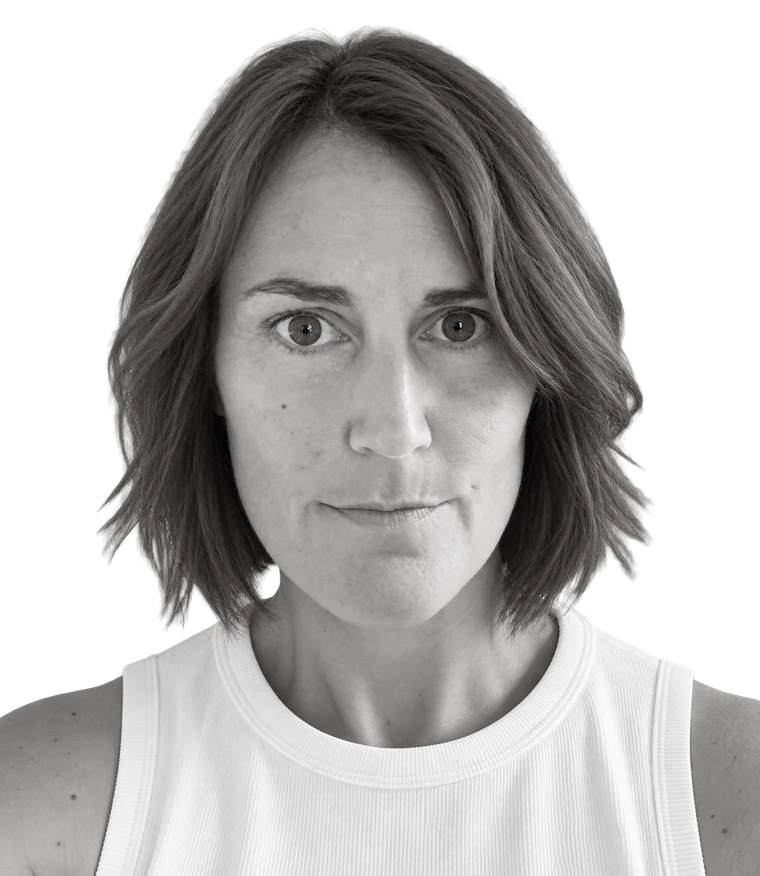
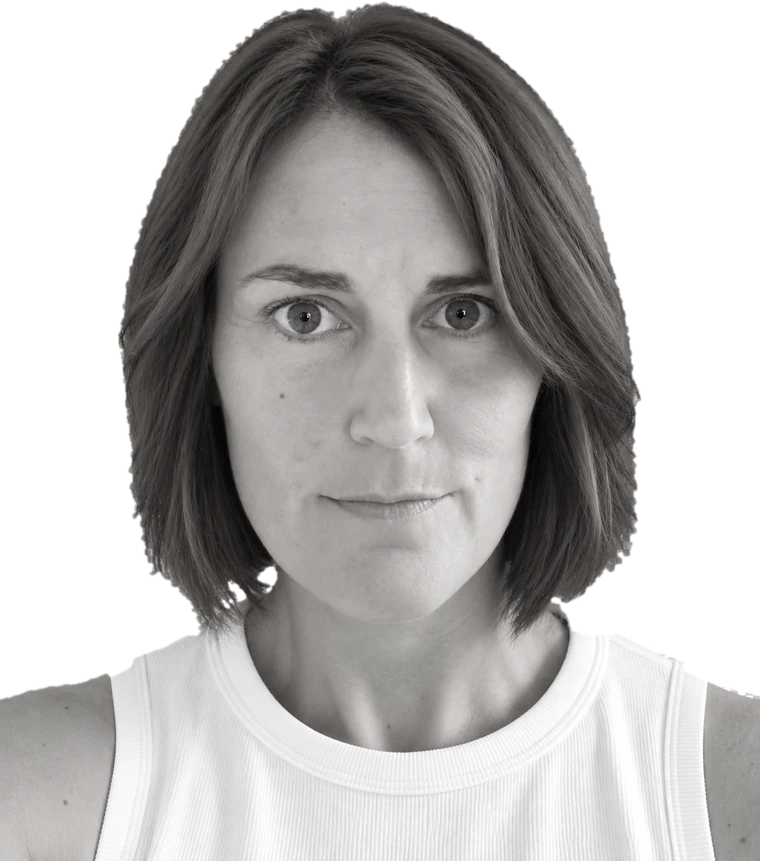
Add files via upload

diff --git a/index.html b/index.html
@@ -4,6 +4,7 @@
 <meta charset="utf-8">
 <meta name="viewport" content="width=device-width, initial-scale=1, viewport-fit=cover">
 <title>Axelle Julliard – Consultante indépendante | YeloConseil</title>
+<script>(function(){function f(){var h=(window.visualViewport&&window.visualViewport.height)||window.innerHeight;document.documentElement.style.setProperty("--vh",h+"px")}f();window.addEventListener("resize",f);window.addEventListener("orientationchange",f)})();</script>
 <meta name="description" content="Axelle Julliard, consultante indépendante en organisation et management. Pilotage de projets et transformation, Nantes et périphérie.">
 <meta name="theme-color" content="#ffffff">
 <meta property="og:title" content="Axelle Julliard – Consultante indépendante">
@@ -30,98 +31,101 @@ body{
   font-family:"Poppins","Avenir Next",Avenir,"Segoe UI",system-ui,sans-serif;
   font-weight:400;
   color:var(--ink);
-  background:var(--page);
-  min-height:100vh;
+  background:#fff;
   display:flex;
   justify-content:center;
 }
+/* La carte occupe exactement l'écran : tout est dimensionné en fonction
+   de sa largeur (cqw) et de sa hauteur (cqh), donc rien ne dépasse. */
 .card{
   width:100%;
   max-width:440px;
-  min-height:100vh;
+  height:100vh;height:100svh;height:min(var(--vh,100svh),720px);
   background:#fff;
   position:relative;
   overflow:hidden;
-  container-type:inline-size;
+  container-type:size;
   display:flex;
   flex-direction:column;
 }
 @media (min-width:480px){
-  body{align-items:flex-start;padding:32px 0}
-  .card{min-height:0;border-radius:36px;box-shadow:0 24px 60px rgba(20,20,20,.12)}
+  body{align-items:center;min-height:100vh;padding:32px 0;background:var(--page)}
+  .card{height:min(860px,calc(100vh - 64px));border-radius:36px;box-shadow:0 24px 60px rgba(20,20,20,.12)}
 }
 
-/* ---------- Contenu ---------- */
 .sheet{
-  flex:1;
-  padding:calc(30px + env(safe-area-inset-top,0px)) 28px 0;
+  flex:1;min-height:0;
+  padding:calc(3.2cqh + env(safe-area-inset-top,0px)) 7.2cqw 0;
   display:flex;flex-direction:column;
 }
-.logo{display:block;width:min(260px,66%);height:auto}
-.identity{margin-top:34px}
+.logo{display:block;width:min(66%,30cqh,260px);height:auto}
+.identity{margin-top:3.6cqh}
 h1{
   margin:0;
-  font-size:clamp(1.9rem,8.6cqw,2.4rem);
+  font-size:clamp(1.45rem,min(8.6cqw,4.3cqh),2.4rem);
   line-height:1.1;
   font-weight:500;
   letter-spacing:-.01em;
 }
-.role{margin:8px 0 0;font-size:1.15rem;font-weight:500;color:var(--pink)}
-.skills{margin:12px 0 0;font-size:.92rem;line-height:1.5;color:var(--muted);max-width:32ch}
-.place{display:flex;align-items:center;gap:10px;margin:16px 0 0;font-size:.92rem;color:var(--muted)}
-.place svg{flex:none}
+.role{margin:.9cqh 0 0;font-size:clamp(.95rem,min(4.4cqw,2.5cqh),1.15rem);font-weight:500;color:var(--pink)}
+.skills{margin:1.4cqh 0 0;font-size:clamp(.76rem,min(3.6cqw,2.1cqh),.92rem);line-height:1.45;color:var(--muted);max-width:32ch}
+.place{display:flex;align-items:center;gap:10px;margin:1.8cqh 0 0;font-size:clamp(.76rem,min(3.6cqw,2.1cqh),.92rem);color:var(--muted)}
+.place svg{flex:none;height:clamp(16px,2.8cqh,24px);width:auto}
 
-.actions{display:grid;gap:10px;margin-top:24px}
+.actions{display:grid;gap:1.2cqh;margin-top:2.8cqh}
 .btn{
-  display:flex;align-items:center;gap:18px;
-  min-height:54px;padding:0 18px;
+  display:flex;align-items:center;gap:clamp(12px,4.4cqw,18px);
+  min-height:clamp(40px,6.3cqh,54px);padding:0 clamp(12px,4.6cqw,18px);
   border-radius:14px;
-  font:inherit;font-weight:500;font-size:1rem;
+  font:inherit;font-weight:500;font-size:clamp(.8rem,min(2.4cqh,4.2cqw),1rem);
   color:var(--ink);text-decoration:none;
   background:var(--pink-soft);
   transition:background-color .15s ease, transform .15s ease;
 }
 .btn .label{flex:1}
 .btn svg{flex:none}
+.btn svg:first-child{height:clamp(20px,3.1cqh,26px);width:auto}
 .btn:hover{background:var(--pink-line)}
 .btn:active{transform:scale(.985)}
 .btn:focus-visible{outline:3px solid var(--ink);outline-offset:3px}
 .btn.primary{background:var(--pink);color:#fff}
 .btn.primary:hover{background:#e0107f}
 
-/* ---------- Bas : signature + portrait discret ---------- */
+/* ---------- Bas : signature + portrait discret, côte à côte ---------- */
 .closing{
   position:relative;
-  margin-top:28px;padding-top:24px;
-  display:grid;grid-template-columns:1fr auto;grid-template-rows:auto 1fr;align-items:end;
-  flex:1;
+  margin-top:3cqh;padding-top:2.6cqh;
+  display:grid;grid-template-columns:1fr auto;grid-template-rows:auto;align-items:end;align-content:center;column-gap:2cqw;
+  flex:1;min-height:0;
 }
 .closing::before{content:"";position:absolute;left:0;top:0;width:min(250px,62%);height:1px;background:var(--pink-line)}
-.tagline{grid-column:1 / -1;margin:0;font-size:clamp(1.3rem,6.4cqw,1.6rem);line-height:1.3;font-weight:400}
+.tagline{align-self:center;margin:0;font-size:clamp(1rem,min(5.6cqw,3.1cqh),1.4rem);line-height:1.3;font-weight:400}
 .tagline em{font-style:normal;color:var(--pink)}
-.tagline::after{content:"";display:block;width:56px;height:4px;border-radius:2px;background:var(--pink);margin-top:20px}
+.tagline::after{content:"";display:block;width:48px;height:4px;border-radius:2px;background:var(--pink);margin-top:1.8cqh}
 
 .figure{
-  --d:40cqw;
-  grid-column:2;
-  min-height:0;
+  --d:min(34cqw,22cqh);
   position:relative;
   width:var(--d);height:calc(var(--d) * 1.3);
-  margin-top:6px;
-  margin-bottom:calc(var(--d) * -.22);
+  margin-bottom:max(calc(var(--d) * .03),3.2cqh);
   /* le cercle est découpé en bas, la tête peut dépasser en haut */
-  -webkit-mask-image:linear-gradient(#000,#000),radial-gradient(circle at 50% calc(var(--d) * .8),#000 calc(var(--d) * .5 - .5px),transparent calc(var(--d) * .5));
-          mask-image:linear-gradient(#000,#000),radial-gradient(circle at 50% calc(var(--d) * .8),#000 calc(var(--d) * .5 - .5px),transparent calc(var(--d) * .5));
-  -webkit-mask-size:100% calc(var(--d) * .8),100% 100%;
-          mask-size:100% calc(var(--d) * .8),100% 100%;
+  -webkit-mask-image:linear-gradient(#000,#000),radial-gradient(ellipse 50% 38.46% at 50% 61.54%,#000 99.6%,transparent 100%);
+          mask-image:linear-gradient(#000,#000),radial-gradient(ellipse 50% 38.46% at 50% 61.54%,#000 99.6%,transparent 100%);
+  -webkit-mask-size:100% 62.2%,100% 100%;
+          mask-size:100% 62.2%,100% 100%;
   -webkit-mask-position:0 0,0 0;
           mask-position:0 0,0 0;
   -webkit-mask-repeat:no-repeat;
           mask-repeat:no-repeat;
 }
-.figure .disc{position:absolute;left:0;bottom:0;width:var(--d);height:var(--d);border-radius:50%;background:var(--pink)}
+.figure .disc{position:absolute;left:0;bottom:0;width:100%;aspect-ratio:1;border-radius:50%;background:var(--pink)}
 .figure img{position:absolute;bottom:0;left:-1%;width:102%;height:auto;display:block}
 
+/* Sur téléphone, la barre d'outils flottante de Safari recouvre le bas de l'écran :
+   on garde le portrait au-dessus. */
+@media (pointer:coarse){.figure{margin-bottom:max(calc(var(--d) * .03),9cqh)}}
+
+@media (max-height:600px){.skills{display:none}.tagline::after{display:none}}
 @media (prefers-reduced-motion:reduce){.btn{transition:none}}
 </style>
 </head>
@@ -159,10 +163,10 @@ h1{
     </nav>
 
     <section class="closing">
-      <p class="tagline">Faire avancer<br>les <em>transformations.</em></p>
+      <p class="tagline">Faire avancer les<br><em>transformations.</em></p>
       <div class="figure">
         <div class="disc" aria-hidden="true"></div>
-        <img src="assets/portrait.webp" alt="Portrait d'Axelle Julliard" width="760" height="876">
+        <img src="assets/portrait.webp" alt="Portrait d'Axelle Julliard" width="760" height="861">
       </div>
     </section>
   </div>
